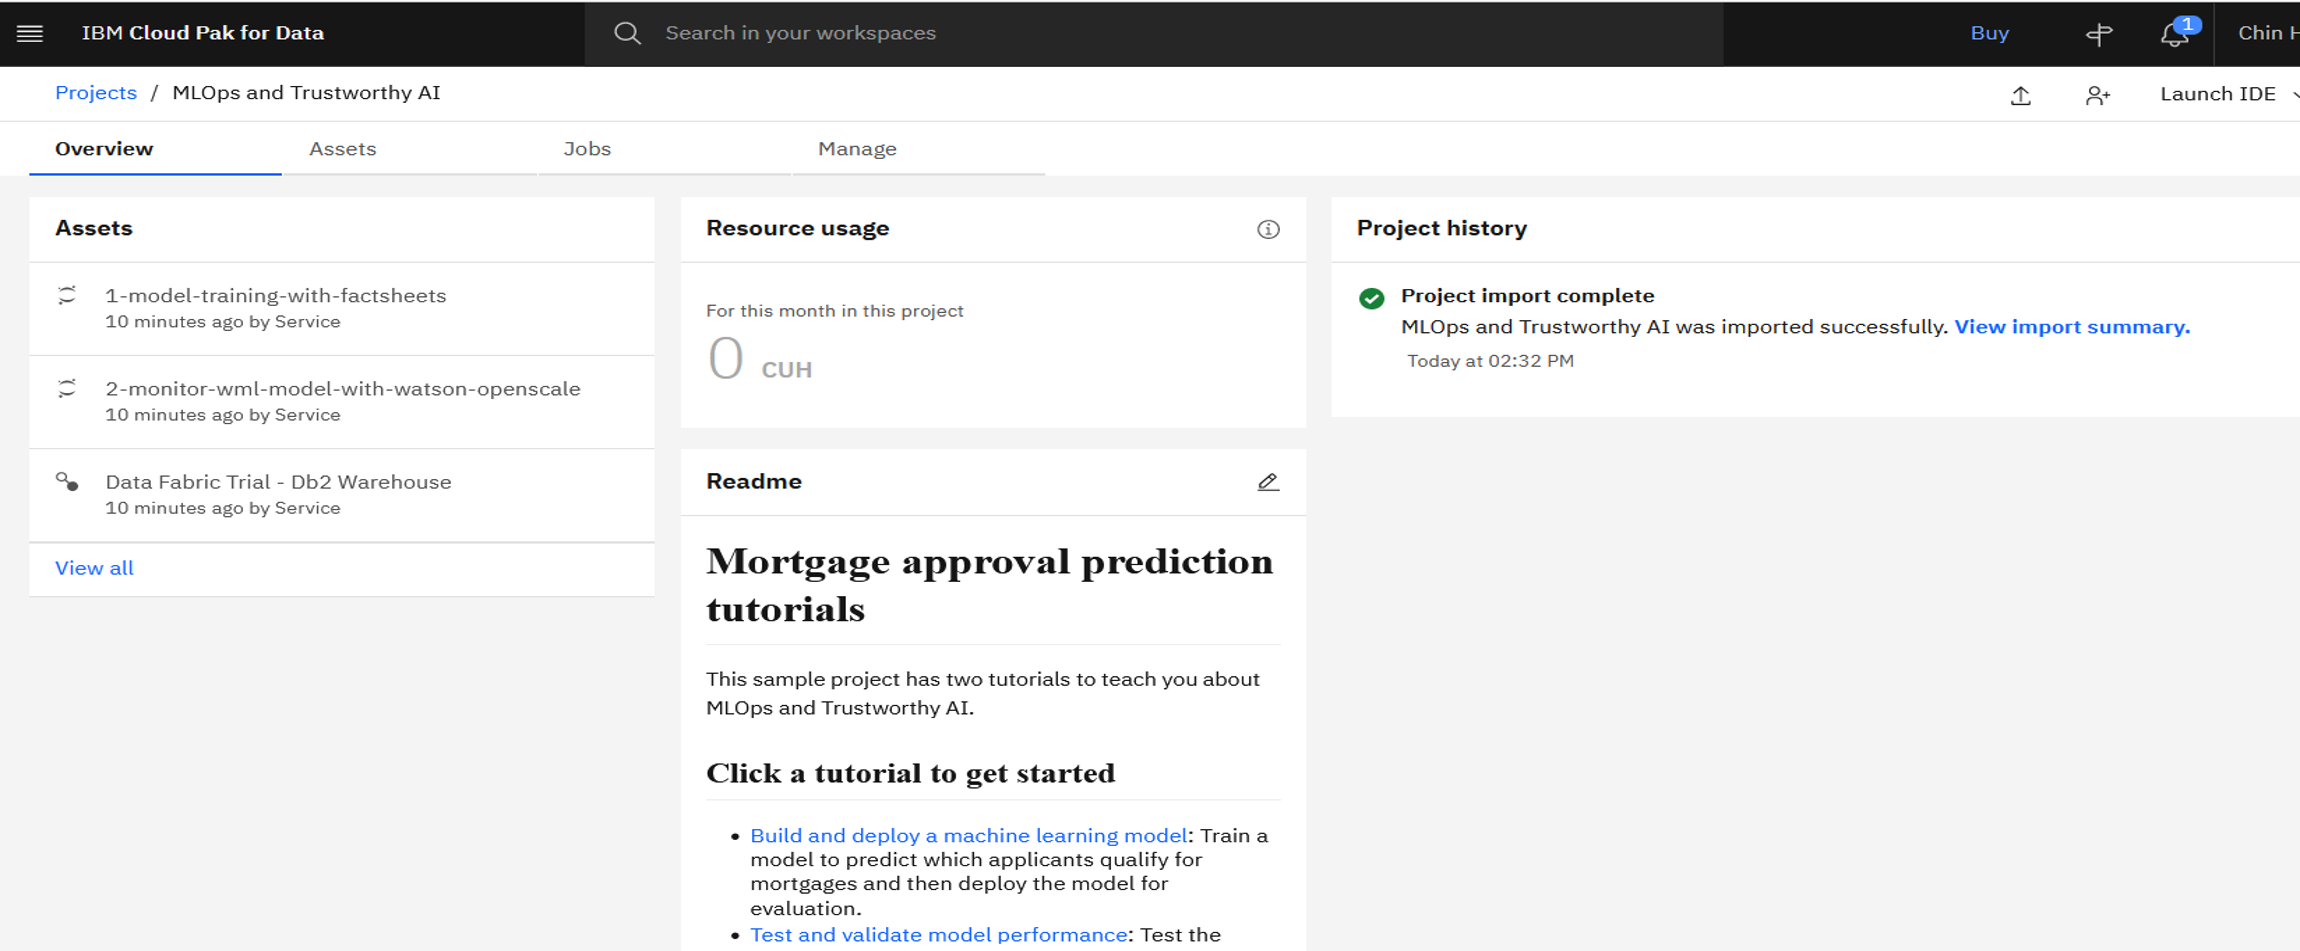
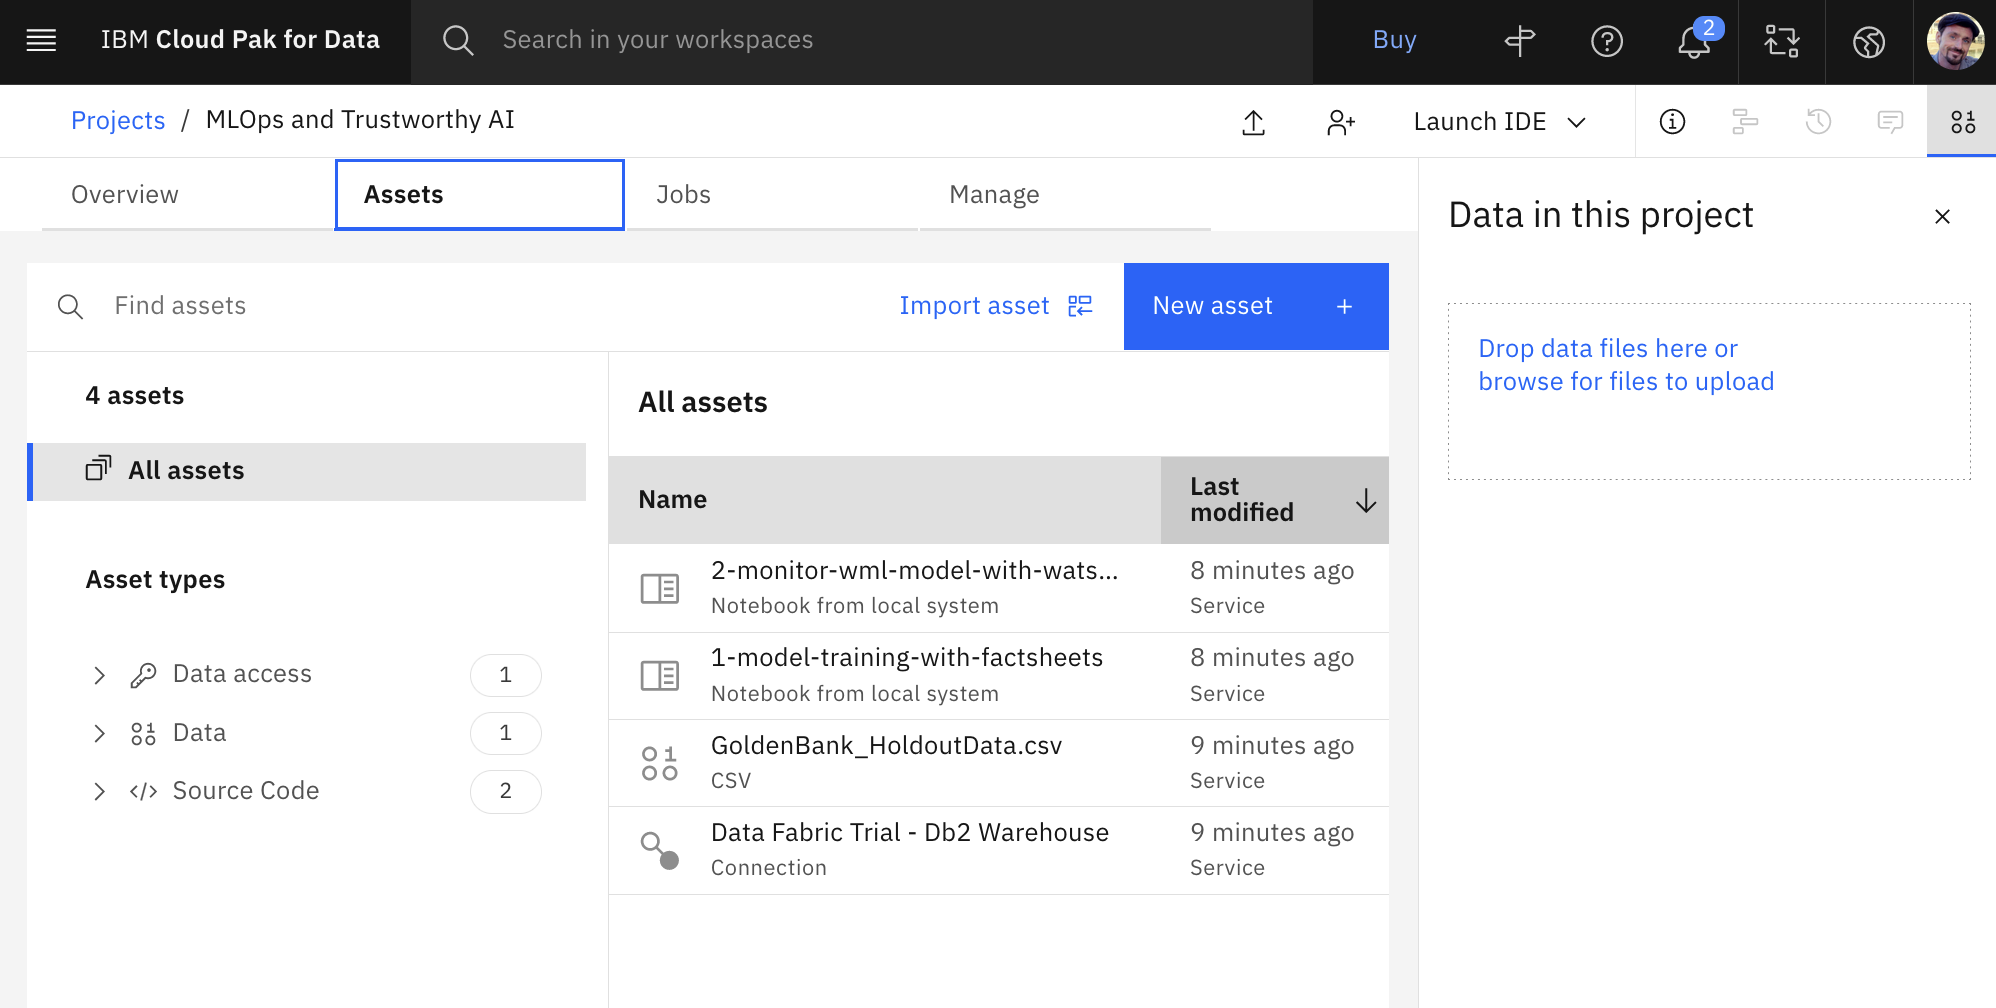
Minor updates to build-and-deploy-with-studio
- Recaptured images
- Corrected/added a few links
- Updated instructions

diff --git a/build-and-deploy-with-studio/README.md b/build-and-deploy-with-studio/README.md
@@ -7,9 +7,24 @@ Golden Bank is a leading mortgage provider through their network of neighborhood
 - Based on a new regulation, the bank cannot lend to underqualified loan applicants. The bank has existing data for loan applications in a Db2 Warehouse. The bank needs to use the data to train AI models without moving it.
 - The bank wants to run a campaign to offer lower mortgage rates. The bank needs a consolidated view of applicants to identify the highest value customers to target and help to determine the best rates to offer them.
 
-## Exercise: Prepare Services
+## Table of Contents
 
-Before we begin, we need to create the required services for the exercise:
+- [Prerequisite: Prepare Services](#prerequisite-prepare-services)
+- [Exercise 1: Create Project](#exercise-1-create-project)
+- [Exercise 2: Set up Tracking](#exercise-2-set-up-tracking)
+- [Exercise 3: Build and Save a Model](#exercise-3-build-and-save-a-model)
+- [Exercise 4: View Model’s AI Factsheet](#exercise-4-view-models-ai-factsheet)
+- [Exercise 5: Associate the Model with a Model Entry](#exercise-5-associate-the-model-with-a-model-entry)
+- [Exercise 6: Promote Model to Deployment Space](#exercise-6-promote-model-to-deployment-space)
+- [Exercise 7: Deploy the Model](#exercise-7-deploy-the-model)
+- [Exercise 8: Run the model](#exercise-8-run-the-model)
+
+
+## Prerequisite: Prepare Services
+
+Before we begin, we need to make sure we have the required services for the exercise. If you
+followed the [sign-up](/sign-up/README.md) process all required services should have been
+provisioned. Follow the steps below to verify or create missing services.
 
 1. Log into your **[IBM Cloud account](https://cloud.ibm.com/)**.
 2. From the navigation menu in the top left corner, scroll down and choose **Cloud Pak for Data > [Services](https://cloud.ibm.com/cloudpaks/data/services)**.
@@ -29,20 +44,22 @@ Before we begin, we need to create the required services for the exercise:
 9. Verify your screen looks like the following image.
    <img src="images/prepare-services.png" width="700"/>
 
-## Exercise: Create Project
+## Exercise 1: Create Project
 
 Create the sample project for the exercise:
 
-1. Login to IBM Cloud.
+1. Login to [IBM Cloud Pak for Data](https://dataplatform.cloud.ibm.com/login?context=cpdaas)
+   - Select "Dallas" under "Work with resources in this IBM Cloud region"
 2. From the navigation menu in the top left corner select **[Gallery](https://dataplatform.cloud.ibm.com/gallery?context=cpdaas&query=trust)**.
-3. Click on the [MLOps and Trustworthy AI](https://dataplatform.cloud.ibm.com/exchange/public/entry/view/48e9f342365736c7bb7a8dfc48e6245e?context=cpdaas) guided tutorial sample project.
+3. Type "MLOps" in the search box and click on the [MLOps and Trustworthy AI](https://dataplatform.cloud.ibm.com/exchange/public/entry/view/48e9f342365736c7bb7a8dfc48e6245e?context=cpdaas) guided tutorial sample project.
 4. Click **Create project**.
 5. Take the default name and select your Cloud Object Storage instance from the list.
-6. Click **Create** and then **View new project** to verify that the project and assets were created successfully.
-7. Verify your project looks like the following image:
+6. Click **Create** and then **View new project** 
+7. Close the popup window and select the **Assets** tab to verify your project looks like the following image:
    <img src="images/create-project.png" width="700"/>
 
-## Exercise: Set up Tracking
+## Exercise 2: Set up Tracking
+
 1. Set up tracking for your model in Watson Knowledge Catalog:
     1. From the IBM Cloud Pak for Data navigation menu, choose **Catalogs > [View all catalogs](https://dataplatform.cloud.ibm.com/data/catalogs/?context=cpdaas)**. 
     2. Click **Create Catalog**.
@@ -58,7 +75,7 @@ Create the sample project for the exercise:
     5. Verify your model entry looks like the following image.
        <img src="images/set-up-tracking.png" width="700"/>
 
-## Exercise: Build and Save a Model
+## Exercise 3: Build and Save a Model
 
 We will run the first notebook in the sample project in order to ...:
  - Set up AI Factsheets used to track the lifecycle of the mode.
@@ -71,115 +88,117 @@ We will run the first notebook in the sample project in order to ...:
 
  1. From the IBM Cloud Pak for Data navigation menu, choose **Projects > [View all projects](https://dataplatform.cloud.ibm.com/projects/?context=cpdaas)**.
  2. Open the **MLOps and Trustworthy AI** project. 
- 3. On the **Assets** tab, click **Source Code > Notebook**.
+ 3. On the **Assets** tab, click **Source Code > Notebooks**.
  4. Open the **1-model-training-with-factsheets** notebook. 
  5. Since the notebook is in read-only mode, click the **Edit** (pencil) icon to place the notebook in edit mode.
- 6. Under the **Provide your IBM Cloud API key** section, you need to pass your credentials to the Machine Learning API using an API key. If you don't already have a saved API key, follow the instructions in notebook to create an API key.
+ 6. Under the **Provide your IBM Cloud API key** section, you need to pass your credentials to the Machine Learning API service.
+    - If you don't already have a saved [API key](https://cloud.ibm.com/iam/apikeys), follow the instructions in notebook to create an API key.
  7. Update the cell `ibmcloud_api_key = ''` with your API key.
  8. To run all the cells in the notebook, click **Cell > Run All**. Alternatively, you can run the notebook cell by cell if you want to explore each cell and its output.
  9. Take a few minutes to review the steps to build, train, verify, and save this random forest model.
- 10. After the last notebook cell is finished and the model is stored, click **File > Stop Kernel**
+10. After the last notebook cell is finished and the model is stored, click **File > Stop Kernel** and confirm to shut down the kernel.
 
 You just built and saved a model “**Mortgage Approval Prediction Model**” to your project.
 
-## Exercise: View Model’s AI Factsheet
+## Exercise 4: View Model’s AI Factsheet
 
 View the model’s **[AI Factsheet](https://community.ibm.com/community/user/datascience/blogs/shashank-sabhlok/2022/01/23/ai-factsheets-on-cloud-pak-for-data-as-a-service-a)**:
 
  1. From the Cloud Pak for Data navigation menu, choose **Projects > [View all projects](https://dataplatform.cloud.ibm.com/projects/?context=cpdaas)**.
  2. Open the **MLOps and Trustworthy AI** project. 
- 3. On the **Assets** tab, click **Models > Model**.
+ 3. On the **Assets** tab, click **Models > Models**.
  4. Open **Mortgage Approval Prediction Model** that you previously created.
  5. Review the AI [Factsheet](https://dataplatform.cloud.ibm.com/docs/content/wsj/analyze-data/factsheets-viewing.html?audience=wdp#model-factsheet) for your model.
  6. Scroll to the **Training metrics and Training tags** sections to review the captured training metadata.
  7. Verify your screen looks like the following image.
     <img src="images/view-model-factsheet.png" width="700"/>
 
-## Exercise: Associate the Model with a Model Entry
+## Exercise 5: Associate the Model with a Model Entry
 
 We need to associate the model with a model entry.
 
- 1. Scroll up on the model page, and click **Track this model**. 
- 2. Select **Select an existing model entry**.
- 3. From the list of model entries, select **Mortgage Approval Model Entry**.
- 4. Click **Track**.
- 5. Back on the model page, click **Open in model inventory**.
- 6. On the model entry page, click the **Asset** tab.
- 7. Under **Model tracking**, you can see that AI Factsheets track models through their lifecycle.
-    This model is still in the **Develop** stage as it has not been deployed yet.
- 8. Verify your screen looks like the following image.
-    <img src="images/associate-model-with-model-entry.png" width="700"/>
+1. Scroll up on the model page, and click **Track this model**. 
+   1. In the pop-up dialog box, choose **Select an existing model entry**.
+   2. From the list of model entries, select **Mortgage Approval Model Entry**.
+   3. Click **Track** to close the dialog box
+2. Back on the model page, click **Open in [model inventory](https://dataplatform.cloud.ibm.com/aigov/modelinventory?context=cpdaas)**.
+3. On the **Model entry** page, click the **Asset** tab.
+4. Under **Model tracking**, you can see that AI Factsheets track models through their lifecycle.
+   This model is still in the **Develop** stage as it has not been deployed yet.
+5. Verify your screen looks like the following image.
+   <img src="images/associate-model-with-model-entry.png" width="700"/>
 
-## Exercise: Promote Model to Deployment Space
+## Exercise 6: Promote Model to Deployment Space
 
 Before you can deploy the model, you need to promote the model to a new deployment space.
 
  1. From the IBM Cloud Pak for Data navigation menu, choose **Catalogs > [Model inventory](https://dataplatform.cloud.ibm.com/aigov/modelinventory?context=cpdaas)**.
  2. For the Mortgage Approval Model Entry, click **View details**.
  3. Click **Asset** tab.
- 4. From the model entry, under the Develop phase, click **Mortgage Approval Prediction Model**.
+ 4. From the model entry, under the **Develop** phase, click **Mortgage Approval Prediction Model**.
  5. Click **Open in project** to open the model in the MLOps and Trustworthy AI project.
  6. On the model page, click **Promote to deployment space**.
  7. For the Target space, select **Create a new deployment space**.
  8. For the deployment space name, enter “**Golden Bank Preproduction Space**” with no leading or trailing spaces.
  9. Select your storage service from the list.
 10. Select your provisioned machine learning service from the list.
-    - If no machine learning service was found for your account, click **Create** to create one
-11. Click **Create** and then **Close**.
-12. For the Target space, ensure that **Golden Bank Preproduction Space** is selected.
+11. Click **Create** and after the deployment space is ready click **Close**.
+12. For the **Target space**, ensure that **Golden Bank Preproduction Space** is selected.
 13. Check the **Go to model in the space after promoting it** option.
 14. Click **Promote**.
 
-## Exercise: Deploy the Model
+## Exercise 7: Deploy the Model
 
 Create an online deployment for the model.
 
  1. On the deployment space screen, click **New deployment**.
  2. For the Deployment type, select **Online**.
  3. For the Name, enter "**Mortgage Approval Model Deployment**" with no leading or trailing spaces.
- 4. For the Serving Name, enter “**mortgage_approval_service**”, append some characters to make it unique if name is taken.
+ 4. For the Serving Name, enter “**mortgage_approval_service_<your_unique_id>**”, append some characters to make it unique if name is taken.
  5. Click **Create**.
- 6. Choose **Catalogs > Model inventory**.
+ 6. Navigate to **Catalogs > Model inventory**.
  7. For the Mortgage Approval Model Entry, click **View details**.
- 8. Click the **Asset** tab. Under Model tracking, you can see that the model is now in the Deploy stage. 
+ 8. Click the **Asset** tab. Under Model tracking, you can see that the model is now in the **Deploy** stage. 
  9. Verify your model entry looks like the following image.
     <img src="images/deploy-model.png" width="700"/>
 
-## Exercise: Run the model
+## Exercise 8: Run the model
 
 Make predictions using the deployed model.
 
 1. Add the test dataset to the deployment space
-    1. Download the test dataset [**GoldenBank_TestData.csv**](./GoldenBank_TestData.csv) from this repo.
-    2. From the Cloud Pak for Data navigation menu, click **[Deployments](https://dataplatform.cloud.ibm.com/ml-runtime/spaces?context=cpdaas)**.
-    3. Select the "**Golden Bank Preproduction Space**" from the list of Deployments
-    4. Click on "**Drop files here or browse for files to upload**" to upload the test dataset.
-    5. Verify that the test dataset csv file appears in **Data assets**.
-2. Open model deployment in the deployment space
-    1. Click **Deployments** tab.
-    2. Click **Mortgage Approval Model Deployment**.
-3. Make a prediction request to the model – use a dataset CSV file
-    1. Observe different ways to make a prediction request to the model.
-    2. On the **Test** tab, click **Search in space**.
-    3. Click **Data asset**.
-    4. Click **GoldenBank_TestData.csv** and **Confirm**.
-    5. Click **Predict** to make prediction requests for 168 entries in the test dataset.
-    6. Verify your screen looks like the following image.
-       <img src="images/run-the-model.png" width="700"/>
-4. Make a prediction request to the model – use a local JSON file
-    1. You can use json to send a single request as well.
-    2. Download the test json file [**GoldenBank_TestData.json**](./GoldenBank_TestData.json) from this repo.
-    3. Click on the **Deployments** tab.
-    4. Click on **Mortgage Approval Model Deployment**.
-    5. On the **Test** tab, click **Paste JSON**.
-    6. Click **Browse local files** and select the "**GoldenBank_TestData.json**" downloaded in step 2.
-    7. Click **Predict** to make a prediction request for the entry in json.
-    8. You should see the Binary classification result for 1 Record, i.e. a prediction of **0 and 94%** confidence.
-    9. Close the result popup
-    10. Repeat the steps to "**Browse local files**" and scroll down the json editor and change the following values: 
-        - 3rd value from `10` to `30` (`YRS_WITH_CURRENT_EMPLOYER`)
-        - 5th value from `2000` to `200` (`CREDITCARD_DEBT`)
-    11. Verify your screen looks like in this screenshot
-        <img src="images/predict-with-json.png" width="700"/>
-    12. Click **Predict** to make a prediction request for the entry in json.
-    13. Now you should see a prediction of **1** with a high confidence around **80%**.
+   1. Download the test dataset [**GoldenBank_TestData.csv**](./GoldenBank_TestData.csv) from this repo.
+      1. Click "Raw" in the top right corner above the CSV content view
+      2. From your browser "File" menu, click "Save page as" to store a local copy of the CSV file
+   2. From the Cloud Pak for Data navigation menu, click **Deployments**
+   3. Select the **[Spaces](https://dataplatform.cloud.ibm.com/ml-runtime/spaces?context=cpdaas)** tab and
+      click on "**Golden Bank Preproduction Space**" from the list of Deployments
+   4. Click on "**Drop files here or browse for files to upload**" to upload the test dataset.
+   5. Verify that the test dataset CSV file appears under **Data assets** on the **Assets** tab.
+2. Open model deployment in the deployment space.
+   1. Click **Deployments** tab.
+   2. Click **Mortgage Approval Model Deployment**.
+3. Make a prediction request to the model - using a dataset CSV file
+   1. On the **Test** tab, click **Search in space**.
+   2. Click **Data asset**.
+   3. Click **GoldenBank_TestData.csv** and **Confirm**.
+   4. Click **Predict** to make prediction requests for 168 entries in the test dataset.
+   5. Verify your screen looks like the following image.
+      <img src="images/run-the-model.png" width="700"/>
+   6. Close the Prediction results dialog.
+4. Make a prediction request to the model – using a local JSON file
+   1. Download the test json file [**GoldenBank_TestData.json**](./GoldenBank_TestData.json) from this repo.
+      1. Click "Raw" in the top right corner above the JSON content view
+      2. From your browser "File" menu, click "Save page as" to store a local copy of the JSON file 
+   2. Under "Enter input data", click **Paste JSON**.
+   3. Click **Browse local files** and select the "**GoldenBank_TestData.json**" downloaded in the previous step.
+   4. Click **Predict** to make a prediction request for the entry in json.
+   5. You should see the Binary classification result for 1 Record, i.e. a prediction of **0 and 94%** confidence.
+   6. Close the result dialog
+   7. Repeat the steps to "**Browse local files**", scroll down the json editor and change the following values: 
+      - 3rd value from `10` to `30` (`YRS_WITH_CURRENT_EMPLOYER`)
+      - 5th value from `2000` to `200` (`CREDITCARD_DEBT`)
+   8. Verify your screen looks like in this screenshot
+      <img src="images/predict-with-json.png" width="700"/>
+   9. Click **Predict** to make a prediction request for the entry in json.
+   10. Now you should see a prediction of **1** with a high confidence around **80%**.
